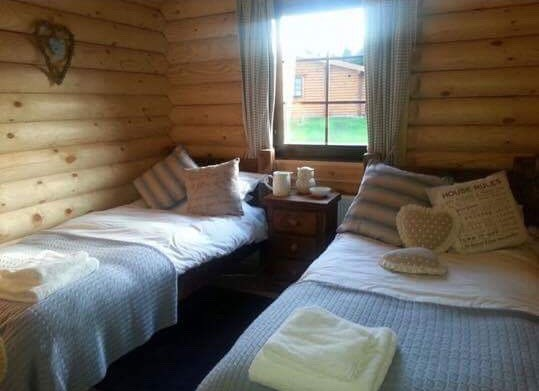
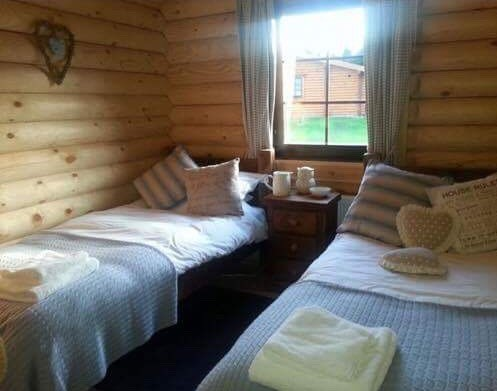
changed the link to the new twin bedroom pic

diff --git a/index.html b/index.html
@@ -124,7 +124,7 @@
 						<img src="images/pic02.jpg" alt="" />
 					</a>
 					<p>One large double room and two twin rooms mean a total of six people can stay with us</p>
-						<img src="images/cabin twin room.jpeg" alt="" />
+						<img src="images/cabin twin room 2.jpeg" alt="" />
 					<ul class="actions">
 						<li>
 							<a href="#" class="button">Read More</a>
